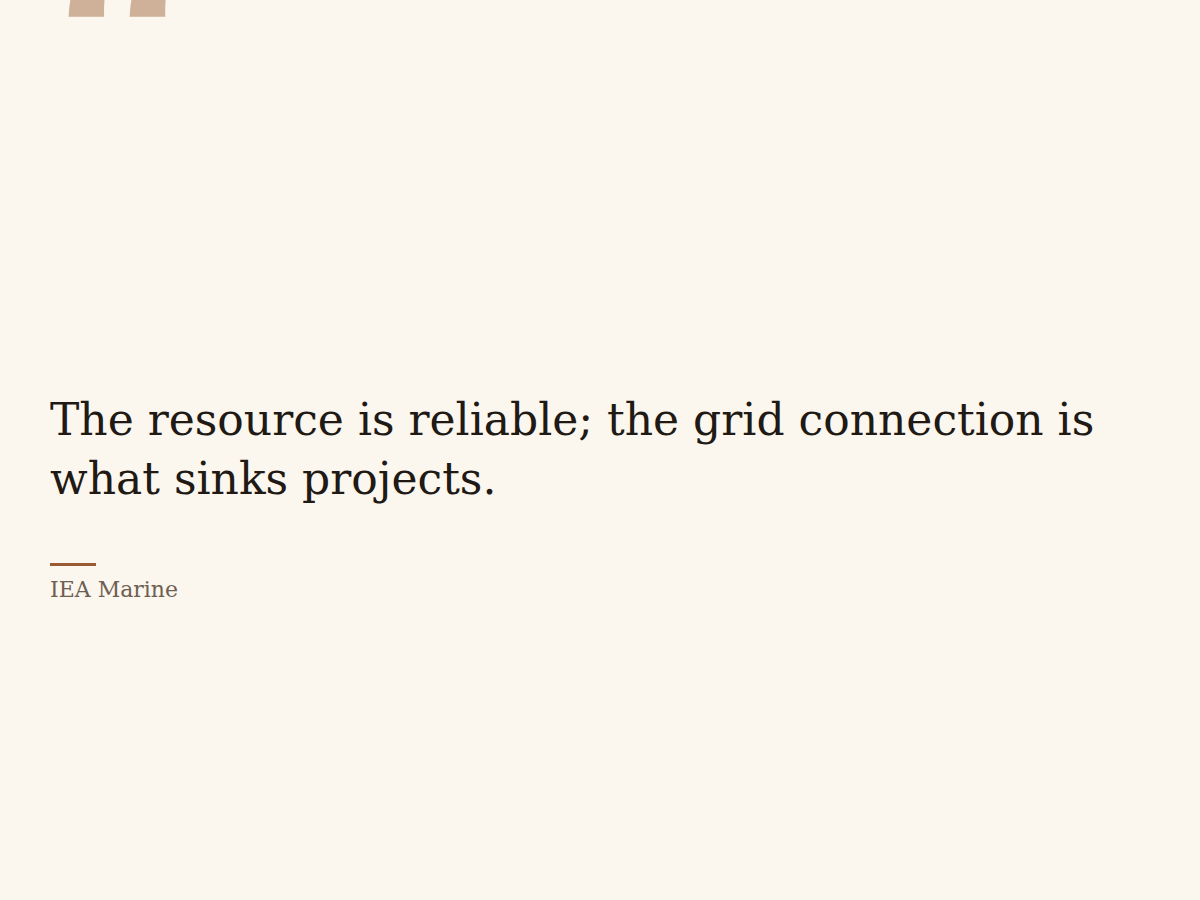
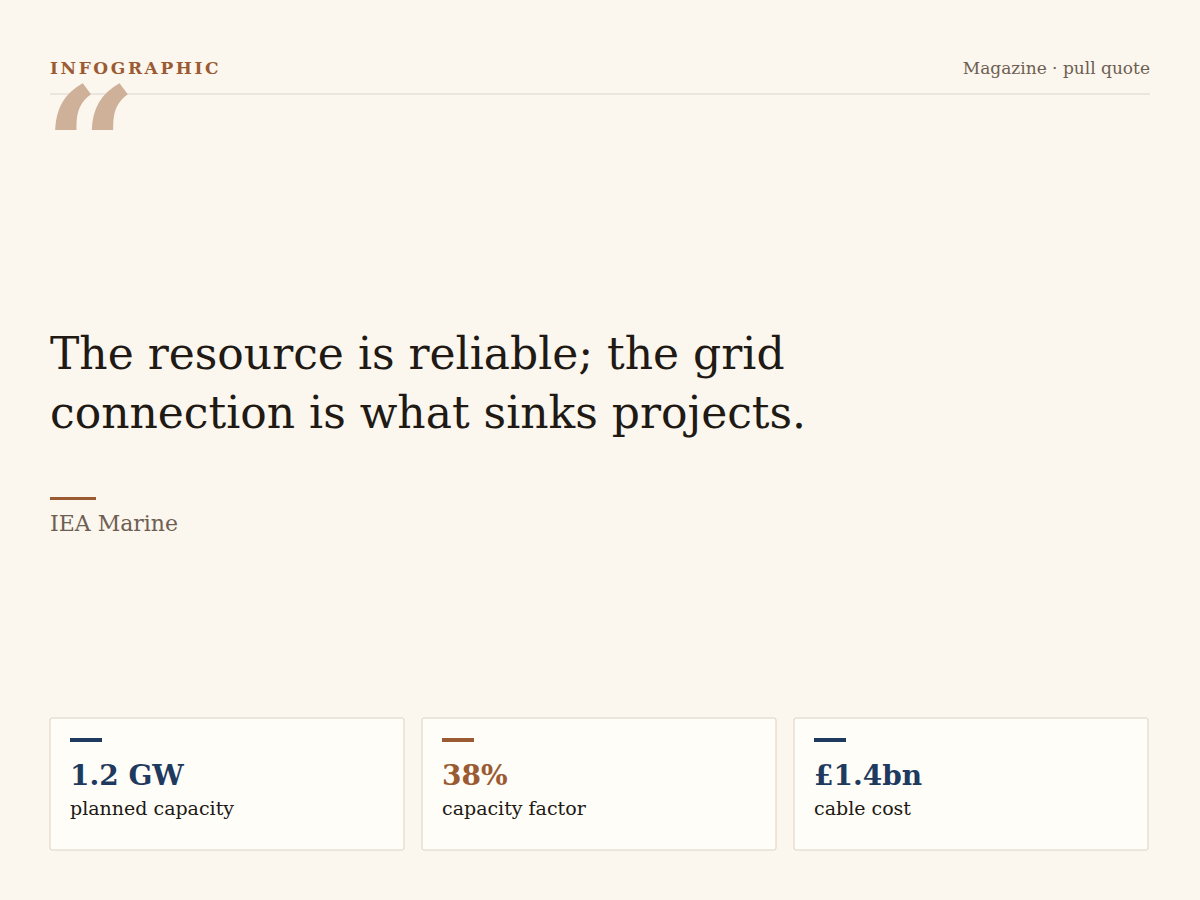
gfx: 38 looks — Astryx theme wave, quote cards that carry evidence
Five looks from Meta's Astryx design system (MIT), palettes read from
packages/themes/<name>/palette.config.json rather than invented:

- butter  cream stock + cobalt numerals, stat grid
- matcha  pale green paper + clay/teal accents, comparison
- gothic  charcoal + muted jewel accents, serif, pull quote
- y2k     cream + hyper-saturated cyan/pink/lime, cover
- stone   warm grey + sage, mono labels, infographic

Quote cards, fixed by looking at them:

- they had no masthead, which is why a quote card read as an empty page: kicker,
  'label · pull quote' meta and a hairline rule are drawn now
- the opening quote glyph was 0.30 x canvas and clipped off the top edge — 0.18
  with a baseline that fits
- a bottom rail of up to three figures gives the quote its evidence, so the page
  carries content instead of air
- header() was rendering 'Untitled' for an empty title; a pull quote is the title

Chasing derelicts found on the way: sumi strokes taper at both ends (a blunt end
read as a rectangle), gain displaced ink edges and a density gradient, bristle
lines sit inside the stroke, and the quote measure is capped at 900px.

Ready for the 38-look sheet: counts, docs, skill table, snapshots; 226 tests,
gates 53/53.

diff --git a/hermes_notebook/gfx/illustrate.py b/hermes_notebook/gfx/illustrate.py
@@ -278,24 +278,62 @@ def clay_background(w: int, h: int, p: Preset) -> List[str]:
 
 
 def sumi_background(w: int, h: int, p: Preset) -> List[str]:
-    """Ink wash: two soft brush strokes in the corner, paper tone, nothing else. The
-    stroke is a filled path with a blurred twin underneath, which is how a wash reads
-    as pigment rather than as a shape."""
-    ink = core.mix(p.ink, p.paper, 0.55)
-    vermilion = core.mix(p.accents[1 % len(p.accents)], p.paper, 0.35)
+    """Ink wash: tapered brush strokes — the shape carries the pressure, not a blur.
+    A blurred twin underneath gives the bleed; a thin dry edge gives the bristle."""
+    ink = core.mix(p.ink, p.paper, 0.28)
+    vermilion = core.mix(p.accents[1 % len(p.accents)], p.paper, 0.30)
+
+    def stroke(pts, width):
+        """A tapered polygon: wide at the start, thin at the tail, with a wobbling edge."""
+        left, right = [], []
+        n = len(pts) - 1
+        for i, (x, y) in enumerate(pts):
+            nx, ny = pts[min(i + 1, n)]
+            px, py = pts[max(i - 1, 0)]
+            dx, dy = nx - px, ny - py
+            d = math.hypot(dx, dy) or 1.0
+            ux, uy = -dy / d, dx / d
+            t = i / max(1, n)
+            # a brush lands thin, swells, and lifts thin again — a blunt end reads
+            # as a rectangle, which is exactly how it was being read
+            half = width * (math.sin(math.pi * (0.12 + t * 0.88)) ** 0.55) * \
+                (1 + 0.10 * math.sin(t * 9 + 1.3))
+            left.append((x + ux * half, y + uy * half))
+            right.append((x - ux * half, y - uy * half))
+        path = " ".join(f"{'M' if i == 0 else 'L'}{x:.0f} {y:.0f}"
+                        for i, (x, y) in enumerate(left + right[::-1]))
+        return path + " Z"
+
+    # both strokes live inside the sheet: a shape cut by the edge reads as a crop
+    # mistake, not as a gesture
+    top = [(w * 0.09, h * 0.155), (w * 0.20, h * 0.112), (w * 0.33, h * 0.104),
+           (w * 0.45, h * 0.122), (w * 0.53, h * 0.150)]
+    bottom = [(w * 0.90, h * 0.835), (w * 0.78, h * 0.862), (w * 0.66, h * 0.884),
+              (w * 0.55, h * 0.900)]
     out: List[str] = [
-        core.gradient("sumiPaper", core.shade(p.paper, 0.04), core.shade(p.paper, -0.04)),
+        '<filter id="inkEdge" x="-10%" y="-10%" width="120%" height="120%">'
+        '<feTurbulence type="fractalNoise" baseFrequency="0.022" numOctaves="3" seed="7" result="n"/>'
+        '<feDisplacementMap in="SourceGraphic" in2="n" scale="7" xChannelSelector="R" '
+        'yChannelSelector="G"/></filter>',
+        core.gradient("inkDense", core.mix(ink, p.paper, 0.02), core.mix(ink, p.paper, 0.45),
+                      "diagonal"),
+        core.gradient("sumiPaper", core.shade(p.paper, 0.05), core.shade(p.paper, -0.05)),
         f'<rect width="{w}" height="{h}" fill="url(#sumiPaper)"/>',
-        f'<g filter="url(#soften)"><path d="M{w * 0.06:.0f} {h * 0.20:.0f} '
-        f'Q {w * 0.30:.0f} {h * 0.02:.0f} {w * 0.58:.0f} {h * 0.16:.0f} '
-        f'Q {w * 0.34:.0f} {h * 0.20:.0f} {w * 0.06:.0f} {h * 0.24:.0f} Z" '
-        f'fill="{core.hexed(ink)}" opacity="0.20"/></g>',
-        f'<g filter="url(#soften)"><path d="M{w * 0.94:.0f} {h * 0.94:.0f} '
-        f'Q {w * 0.62:.0f} {h * 0.86:.0f} {w * 0.40:.0f} {h * 1.02:.0f} '
-        f'Q {w * 0.70:.0f} {h * 0.98:.0f} {w * 0.94:.0f} {h * 0.98:.0f} Z" '
-        f'fill="{core.hexed(ink)}" opacity="0.14"/></g>',
-        core.circle(w * 0.90, h * 0.16, h * 0.018, fill=vermilion, opacity=0.85),
-        f'<rect width="{w}" height="{h}" filter="url(#grain)" opacity="0.5"/>',
+        f'<g filter="url(#soften)">',
+        f'<path d="{stroke(top, h * 0.030)}" fill="{core.hexed(ink)}" opacity="0.16"/>',
+        f'<path d="{stroke(bottom, h * 0.045)}" fill="{core.hexed(ink)}" opacity="0.11"/>',
+        '</g>',
+        f'<g filter="url(#inkEdge)">'
+        f'<path d="{stroke(top, h * 0.026)}" fill="url(#inkDense)" opacity="0.78"/>'
+        f'<path d="{stroke(bottom, h * 0.038)}" fill="url(#inkDense)" opacity="0.60"/></g>',
+        # dry bristle marks: two hairlines that follow the top stroke
+        # bristle striations inside the stroke: what separates a brush from a wedge
+        core.line(w * 0.12, h * 0.150, w * 0.48, h * 0.128, ink, 1, 0.30),
+        core.line(w * 0.15, h * 0.168, w * 0.42, h * 0.152, ink, 1, 0.22),
+        core.line(w * 0.20, h * 0.132, w * 0.40, h * 0.118, ink, 1, 0.16),
+        core.line(w * 0.66, h * 0.860, w * 0.86, h * 0.845, ink, 1, 0.22),
+        core.circle(w * 0.905, h * 0.155, h * 0.020, fill=vermilion, opacity=0.9),
+        f'<rect width="{w}" height="{h}" filter="url(#grain)" opacity="0.45"/>',
     ]
     return out
 

diff --git a/hermes_notebook/gfx/themes.py b/hermes_notebook/gfx/themes.py
@@ -245,8 +245,61 @@ _OPEN_DESIGN: List[Preset] = [
         decor=("hairline", "ticks"), kicker="MISSION // TIDAL", tone="dark", default_template="key_figure"),
 ]
 
+#: Fourth wave, from Meta's Astryx design system (MIT): the palettes are that
+#: project's own theme seeds — butter, matcha, gothic, y2k, stone — not invented
+#: here. Astryx ships 150+ components and eight themes precisely so a product can
+#: change voice without changing structure; these five looks borrow the voices.
+_ASTRYX: List[Preset] = [
+    Preset(
+        "butter", "Butter", "Warm cream stock, cobalt numerals, butter-yellow highlight.",
+        "Bright explainers, product tours, anything with a friendly, sure tone.",
+        "cards", "astryx-butter", paper=(0xFF, 0xFD, 0xF4), ink=(0x1D, 0x1C, 0x11),
+        muted=(0x5C, 0x5A, 0x46), card=(0xFF, 0xFF, 0xFF),
+        accents=[(0x22, 0x5B, 0xFF), (0xFF, 0xA3, 0x47), (0xFD, 0xEE, 0x8C)],
+        border=(0xED, 0xE7, 0xCE), radius=12, decor=(), kicker="BUTTER",
+        tone="light", default_template="stat_grid",
+    ),
+    Preset(
+        "matcha", "Matcha", "Pale green paper, deep olive type, clay and teal accents.",
+        "Sustainability, food, slow research, calm evidence.",
+        "cards", "astryx-matcha", paper=(0xF3, 0xF5, 0xE9), ink=(0x1E, 0x26, 0x16),
+        muted=(0x5A, 0x6B, 0x2A), card=(0xFB, 0xFD, 0xF3),
+        accents=[(0x4D, 0x99, 0x00), (0xC4, 0x76, 0x20), (0x2E, 0x6B, 0x5A)],
+        border=(0xDC, 0xE3, 0xC6), radius=6, decor=("hairline",), kicker="MATCHA",
+        tone="light", default_template="comparison",
+    ),
+    Preset(
+        "gothic", "Gothic", "Charcoal stone, muted jewel accents, serif, hairline rules.",
+        "Archives, history, literature — a page that reads as printed and old.",
+        "rows", "astryx-gothic", paper=(0x0E, 0x11, 0x13), ink=(0xE8, 0xEA, 0xEC),
+        muted=(0x98, 0xA0, 0xA8), card=(0x16, 0x1B, 0x1E),
+        accents=[(0xA3, 0x63, 0xBD), (0x6A, 0x9E, 0xB1), (0xC8, 0x7A, 0x4A)],
+        border=(0x26, 0x2C, 0x30), radius=0, typeface="serif",
+        decor=("hairline",), kicker="GOTHIC", tone="dark", default_template="quote_card",
+    ),
+    Preset(
+        "y2k", "Y2K", "Cream page, hyper-saturated cyan, pink and lime, glossy radii.",
+        "Launches, drops, culture — loud, optimistic, unmistakably now.",
+        "poster", "astryx-y2k", paper=(0xFF, 0xF6, 0xED), ink=(0x17, 0x1A, 0x24),
+        muted=(0x5D, 0x5A, 0x66), card=(0xFF, 0xFF, 0xFF),
+        accents=[(0x00, 0xA8, 0xFF), (0xFF, 0x72, 0xB6), (0xC5, 0xE1, 0x7A)],
+        border=(0xE9, 0xDF, 0xD3), radius=20, decor=(), kicker="Y2K.01",
+        tone="light", default_template="cover",
+    ),
+    Preset(
+        "stone", "Stone", "Warm grey sheet, muted clay and sage, mono labels, no radius.",
+        "Field reports, specs, quiet technical notes that still look designed.",
+        "rows", "astryx-stone", paper=(0xF4, 0xF3, 0xF1), ink=(0x25, 0x25, 0x2A),
+        muted=(0x6E, 0x6E, 0x76), card=(0xFF, 0xFF, 0xFF),
+        accents=[(0x8F, 0x71, 0x54), (0x52, 0x8B, 0x49), (0x6C, 0x78, 0x88)],
+        border=(0xE2, 0xE2, 0xE8), radius=2, typeface="mono",
+        decor=("hairline", "ticks"), kicker="STONE", tone="light",
+        default_template="infographic",
+    ),
+]
+
 PRESETS: List[Preset] = ([_from_style(s) for s in igstyles.STYLES] + _HOUSE + _MORE
-                         + _OPEN_DESIGN)
+                         + _OPEN_DESIGN + _ASTRYX)
 BY_ID: Dict[str, Preset] = {p.id: p for p in PRESETS}
 
 #: Words people and agents actually type, mapped onto ids.
@@ -271,6 +324,11 @@ ALIASES.update({
     "ibm-carbon": "carbon", "enterprise": "carbon", "carbon-grid": "carbon",
     "arc-browser": "arc", "pastel": "arc", "soft-gradient": "arc",
     "spacex": "aero", "space": "aero", "launch": "aero", "rocket": "aero",
+    "astryx": "butter", "meta": "butter", "meta-design": "butter",
+    "green": "matcha", "olive": "matcha", "sustainable": "matcha",
+    "dark-serif": "gothic", "archive": "gothic", "literary": "gothic",
+    "y2k-aesthetic": "y2k", "hyperpop": "y2k", "drop": "y2k",
+    "field-report": "stone", "spec": "stone", "technical": "stone",
 })
 
 DEFAULT_PRESET = "sections"

diff --git a/hermes_notebook/gfx/templates.py b/hermes_notebook/gfx/templates.py
@@ -602,22 +602,42 @@ def tpl_quote_card(f: Frame, p: Preset, g: Dict[str, Any], detail: str = "standa
     els: List[str] = []
 
     acc = p.accents[0]
-    els.append(core.text(f.m, f.m + 90, "“", int(f.h * 0.30),
+    # kicker + meta: every other composition labels the sheet, and a quote card with
+    # no masthead is the page that reads as "empty" rather than "quiet". No title —
+    # a pull quote is the title.
+    els += [core.text(f.m, f.m + 24, p.kicker.upper(), 17,
+                      core.readable(acc, p.paper, 4.5), face, bold=True, tracking=2.6),
+            core.text(f.m + f.inner, f.m + 24, f"{p.label} · pull quote", 17,
+                      core.readable(p.muted, p.paper, 4.5), face, anchor="end"),
+            core.line(f.m, f.m + 44, f.m + f.inner, f.m + 44, p.ink, 1, 0.14)]
+    mark = int(f.h * 0.18)
+    els.append(core.text(f.m - 6, f.m + mark * 0.95, "“", mark,
                          core.mix(acc, p.paper, 0.55), "serif", bold=True))
     size = 44 if f.aspect > 1.2 else 38
-    lines = core.wrap(text, face, size, f.inner - 20)
+    lines = core.wrap(text, face, size, min(f.inner, 900) - 20)
     while len(lines) > 7 and size > 24:
         size -= 2
-        lines = core.wrap(text, face, size, f.inner - 20)
+        lines = core.wrap(text, face, size, min(f.inner, 900) - 20)
     lines = lines[:8]
     block_h = len(lines) * int(size * 1.35)
-    y = (f.h - block_h) // 2 + size
+    rail = [st for st in core.sequence(g.get("stats"), 3)] if detail != "concise" else []
+    rail_h = 132 if rail else 0
+    y = max(f.m + mark + 26, (f.h - rail_h - block_h) // 2 + size)
     for line in lines:
         els.append(core.text(f.m, y, line, size, core.readable(p.ink, p.paper), face))
         y += int(size * 1.35)
     if src:
         els.append(core.rect(f.m, y + 10, 46, 3, fill=acc))
-        els.append(core.text(f.m, y + 44, core.clip(src, face, 22, f.inner), 22, p.muted, face))
+        els.append(core.text(f.m, y + 44, core.clip(src, face, 22, min(f.inner, 900)), 22,
+                             core.readable(p.muted, p.paper, 4.5), face))
+    if rail:
+        # the evidence for the quote, so the page carries content and not only air
+        cols = len(rail)
+        tw = (f.inner - (cols - 1) * f.gap) // cols
+        ty = f.h - f.m - rail_h
+        for i, st in enumerate(rail):
+            x = f.m + i * (tw + f.gap)
+            els += tile(f, p, (x, ty, x + tw, ty + rail_h), st, p.accent_on(i + 1), dense=True)
     return els, f.h, 0
 
 

diff --git a/hermes_notebook/schemas.py b/hermes_notebook/schemas.py
@@ -110,7 +110,7 @@ NOTEBOOK_GENERATE = {
         "style": {"type": "string",
                   # built from the catalogue so the schema can never drift from it
                   "enum": _STYLE_IDS,
-                  "description": ("infographic only: which of the 33 bundled looks to draw. "
+                  "description": ("infographic only: which of the 38 bundled looks to draw. "
                                   "sections (default, warm cards), editorial (huge "
                                   "numerals), poster (dark cover), swiss (strict red "
                                   "grid), magazine (cream serif), bento (rounded "

diff --git a/tools/make_graphics_sheet.py b/tools/make_graphics_sheet.py
@@ -123,7 +123,7 @@ def main() -> int:
         tiles.append((f"styles/{preset.id}.svg", preset.label, f"{preset.id} · {kind}"))
     cols = 4
     rows = math.ceil(len(tiles) / cols)
-    html = _sheet_html(tiles, cols, 600, 450, "hermes-notebook · 33 looks",
+    html = _sheet_html(tiles, cols, 600, 450, "hermes-notebook · 38 looks",
                        "one invented sample payload · type-led, illustrated and "
                        "Open Design-derived looks, each in its own composition")
     (assets / "styles.html").write_text(html)

diff --git a/dashboard/plugin_api.py b/dashboard/plugin_api.py
@@ -102,7 +102,7 @@ KINDS: List[Dict[str, Any]] = [
     {"id": "slides", "label": "Slides", "group": "visual", "ext": "html",
      "blurb": "Self-contained deck, arrow keys", "secs": 22},
     {"id": "infographic", "label": "Infographic", "group": "visual", "ext": "svg",
-     "blurb": "Vector poster — 33 looks, 9 layouts", "secs": 20,
+     "blurb": "Vector poster — 38 looks, 9 layouts", "secs": 20,
      "options": [
          {"id": "style", "label": "Look", "kind": "select",
           "default": gfx_themes.DEFAULT_PRESET,

diff --git a/tests/test_gfx.py b/tests/test_gfx.py
@@ -47,7 +47,7 @@ def test_public_api_exists():
 def test_presets_include_both_house_treatments():
     arts = {p["art"] for p in gfx.preset_catalog()}
     assert "cartoon" in arts and "plate" in arts
-    assert len(gfx.PRESETS) >= 33
+    assert len(gfx.PRESETS) >= 38
 
 
 def test_manifest_is_complete():

diff --git a/docs/GRAPHICS-LIBRARY.md b/docs/GRAPHICS-LIBRARY.md
@@ -1,11 +1,11 @@
 # The graphics library
 
-`hermes_notebook/gfx` is a reusable HTML/SVG graphics library: **33 looks × 9
+`hermes_notebook/gfx` is a reusable HTML/SVG graphics library: **38 looks × 9
 templates × 3 shapes × 3 detail levels**, composed from primitives instead of
 hand-built one-offs. It renders NotebookLM-class artifact visuals without an image
 model, so every numeral on the sheet is the numeral that came out of the sources.
 
-![33 looks](../assets/infographic-styles.png)
+![38 looks](../assets/infographic-styles.png)
 
 ![templates](../assets/graphics-templates.png)
 
@@ -141,7 +141,7 @@ and `data-template` / `data-preset` / `data-detail` for tooling.
 
 ### Presets
 
-**33 looks**, in three waves. Every look carries its own palette, typeface, radius,
+**38 looks**, in three waves. Every look carries its own palette, typeface, radius,
 decoration set, art treatment **and default composition** — because 33 looks that all
 draw the same card grid are three looks in 33 skins.
 
@@ -150,6 +150,7 @@ draw the same card grid are three looks in 33 skins.
 | 1 · type-led (16) | `sections`, `editorial`, `poster`, `swiss`, `magazine`, `bento`, `blueprint`, `terminal`, `neon`, `brutalist`, `retro`, `risograph`, `kraft`, `chalkboard`, `dashboard`, `mission` | palettes borrowed from Open Design's design systems (`bento`, `editorial`, `wired`, `brutalism`, `mission-control`, …) |
 | 2 · editorial + illustrated (2 + 9) | `cartoon`, `realistic`; `newspaper`, `annual`, `museum`, `film`, `data-desk`, `deco`, `glass`, `clay`, `sumi` | the illustrated two are drawn, not photographed; the nine are named design languages (FT salmon, annual report, museum label, film poster, data desk, art deco, mesh glass, claymorphism, sumi-e) |
 | 3 · Open Design tokens (6) | `hud`, `dither`, `verge`, `carbon`, `arc`, `aero` | palettes taken from Open Design's `design-tokens.json` for `hud`, `dithered`, `theverge`, `ibm`, `arc`, `spacex` |
+| 4 · Astryx themes (5) | `butter`, `matcha`, `gothic`, `y2k`, `stone` | Meta's Astryx design system (MIT): palette seeds read from `packages/themes/<name>/palette.config.json` |
 
 Treatments behind them (`Preset.art`):
 
@@ -168,14 +169,14 @@ Default compositions (`Preset.default_template`; `template="auto"` uses it):
 
 | composition | looks |
 |---|---|
-| `infographic` | sections, editorial, newspaper, clay, arc, realistic |
-| `cover` | poster, neon, film, deco, verge, cartoon |
+| `infographic` | sections, editorial, newspaper, clay, arc, stone, realistic |
+| `cover` | poster, neon, film, deco, verge, cartoon, y2k |
 | `key_figure` | terminal, mission, hud, aero |
-| `stat_grid` | bento, dashboard, brutalist, annual, glass |
-| `quote_card` | magazine, kraft, museum, sumi |
+| `stat_grid` | bento, dashboard, brutalist, annual, glass, butter |
+| `quote_card` | magazine, kraft, museum, sumi, gothic |
 | `process` | swiss, blueprint, carbon |
 | `timeline` | retro, chalkboard, dither |
-| `comparison` | risograph, data-desk |
+| `comparison` | risograph, data-desk, matcha |
 
 Quality rules learned by looking at the output (not by taste):
 
@@ -190,6 +191,9 @@ Quality rules learned by looking at the output (not by taste):
 - **Titles wrap balanced, not greedy.** `core.wrap_balanced` narrows the measure until
   the lines are close to equal, so a headline never leaves one word alone.
 - **Figures use tabular numerals** (`tnum`), so columns of numbers line up.
+- **A quote card needs a masthead and evidence.** Without a kicker, a meta line and a
+  rail of the figures the quote rests on, "quiet" reads as "empty" — and a pull quote
+  drawn at 0.30 × canvas height clips its own opening glyph off the top edge.
 - **A look is also a composition.** Without `default_template`, fifteen styles drew
   the same KPI grid; the sheet read as recolours. `template="auto"` gives each look
   the layout its name promises.

diff --git a/README.md b/README.md
@@ -77,7 +77,7 @@ control, a file browser and Proxmox VM snapshots for the selected host.
 | User notes | `notebook_note` — your annotations become first-class searchable sources |
 | Source lifecycle | `notebook_refresh` re-fetches url/file sources, `notebook_delete_source` removes one |
 | Suggestions | `notebook_suggest` — questions worth asking, artifacts worth making, source gaps (optional `kinds` filter) |
-| Artifacts | `notebook_generate` — summary, briefing doc, study guide, FAQ, timeline, **mind map**, flashcards (md or Anki CSV), quiz, **slide deck** (self-contained HTML), **infographic** (SVG: 33 looks × 9 layouts), data table (CSV) |
+| Artifacts | `notebook_generate` — summary, briefing doc, study guide, FAQ, timeline, **mind map**, flashcards (md or Anki CSV), quiz, **slide deck** (self-contained HTML), **infographic** (SVG: 38 looks × 9 layouts), data table (CSV) |
 | Audio Overview | `notebook_audio` — two-host conversational podcast (edge-tts voices + ffmpeg), with transcript |
 | Video Overview | `notebook_video` — cinematic narrated mp4, `style=cinematic|explainer`, Pillow cards + ffmpeg |
 | Web discovery | `notebook_discover` — web_search for candidate sources to add |
@@ -106,10 +106,10 @@ answer. Every thread still cites the same sources.
 ## Graphics library
 
 Every visual artifact is drawn by a reusable library, not one-off code:
-**33 looks × 9 templates × 3 shapes × 3 detail levels**, composed from primitives and
+**38 looks × 9 templates × 3 shapes × 3 detail levels**, composed from primitives and
 emitted as SVG (5–15 KB, crisp at any zoom, real text, accessible).
 
-![33 looks](assets/infographic-styles.png)
+![38 looks](assets/infographic-styles.png)
 ![templates](assets/graphics-templates.png)
 
 ```python

diff --git a/skills/notebook-infographics/SKILL.md b/skills/notebook-infographics/SKILL.md
@@ -13,7 +13,7 @@ metadata:
 
 # Notebook Infographics
 
-The `hermes-notebook` plugin ships a graphics library: **33 looks × 9 templates ×
+The `hermes-notebook` plugin ships a graphics library: **38 looks × 9 templates ×
 3 shapes × 3 detail levels**, emitted as SVG by `hermes_notebook.gfx`. This skill is
 how to choose a look and a layout, how to call it, and — when the user wants
 something painted rather than typeset — how to fall back to the image model.
@@ -74,6 +74,12 @@ summaries — those are their own artifact kinds.
 
 `hud`, `dither`, `verge`, `carbon`, `arc` and `aero` take their palettes from Open
 Design's design-token files, not from taste.
+
+**Astryx-derived** (palette seeds read from Meta's Astryx theme packages, MIT):
+`butter` warm cream + cobalt, stat grid · `matcha` pale green + clay, comparison ·
+`gothic` charcoal + muted jewel accents, serif, pull quote · `y2k` cream with
+hyper-saturated cyan/pink/lime, cover · `stone` warm grey + sage + mono labels,
+infographic.
 
 Full palettes, geometry and decoration rules: `references/style-pack.md`.
 Contact sheet: `assets/infographic-styles.png` in the plugin repo.
